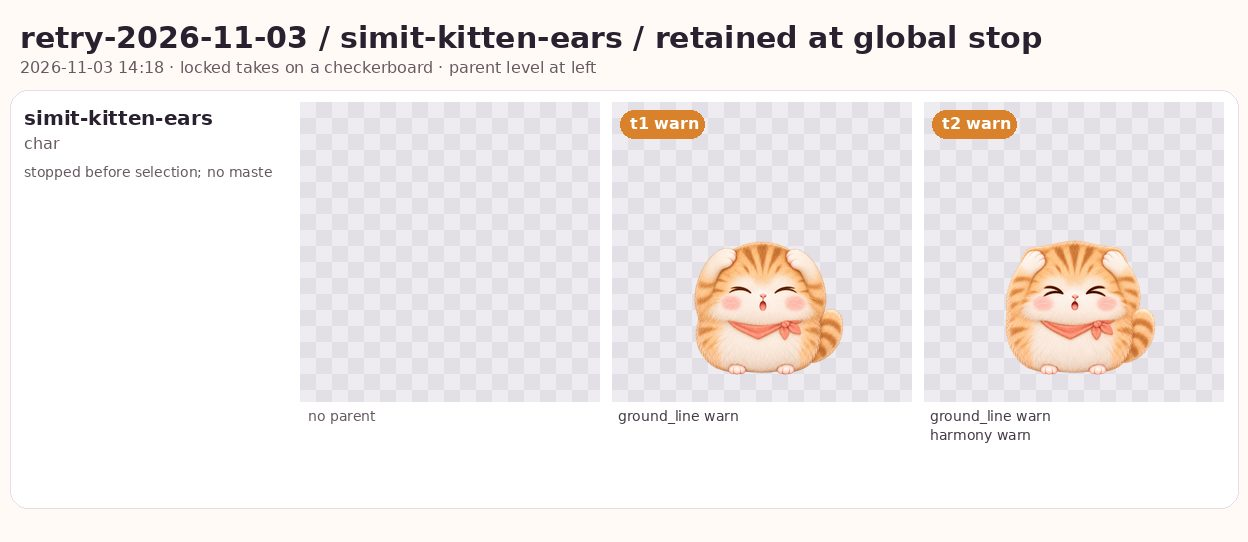
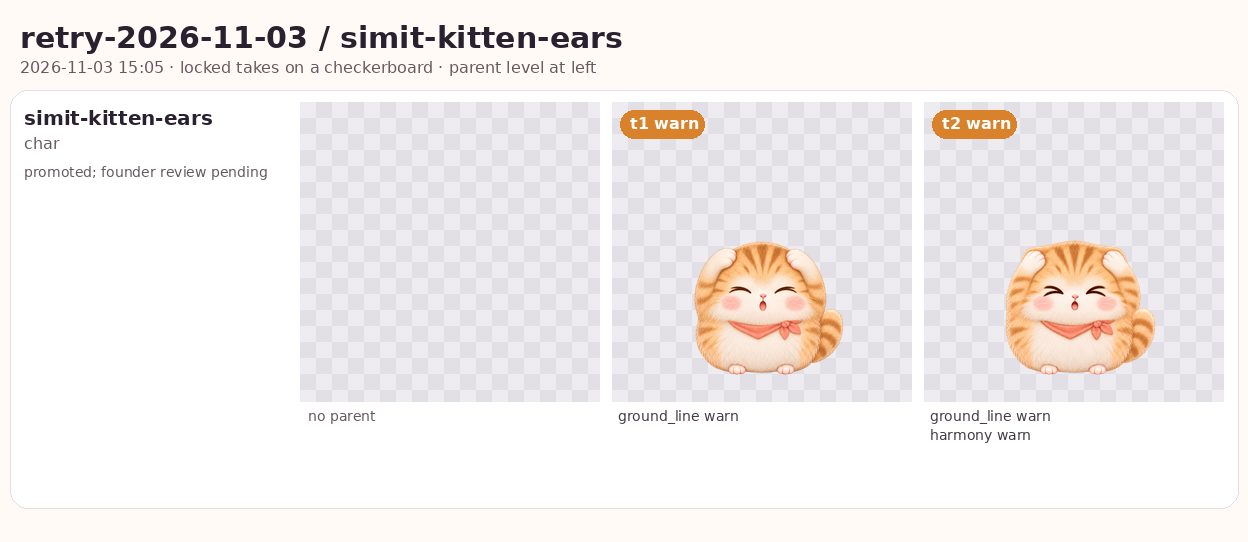
design(art): publish simit-kitten-ears
Generated-With: OpenAI Codex

Changed region(s): [[0.5, 0.059, 0.8438, 0.0886], [0.0, 0.2952, 0.2188, 0.3247], [0.0938, 0.1181, 0.125, 0.1476]]

diff --git a/design/art/masters/simit-kitten-ears/provenance.md b/design/art/masters/simit-kitten-ears/provenance.md
@@ -1,0 +1,52 @@
+# char__simit-kitten-ears
+
+- **Approved:** 2026-11-03T15:05:44+00:00 from batch `retry-2026-11-03`, job `simit-kitten-ears`, take t1
+  of 2 considered.
+- **Generating account:** Founder's uncle's ChatGPT plan, used by the founder with permission
+  (chatgpt-plan).
+- **Tool:** codex-cloud;
+  generated 2026-11-03T13:53:51+00:00.
+- **Post-processing (human-authored, documented per art bible section 13):**
+  canvas fit, style lock preset `char-guard` (style_lock.json v2).
+- **Files:** `raw.webp` is the take as generated (webp lossless), kept so the look can be re-locked; `simit-kitten-ears.png` is the locked master the app and later edits use.
+- **Review note:** auto-picked by QA; founder review pending. Retained pair re-posted under main9ede62e; no new image generation. Both raise the front paws to cover both ears, squeeze the eyes into happy curves and open a soft o mouth, with no tears or worried look. Body, tail, feet and kitten identity remain. Current reports have warnings only from the inherited ground line; t2 also warns on Harmony69.1. Stability passes at0.7572/0.7804; no obsolete manual >0.9 gate. The previously unsealed proposal is now selected as t1 by Harmony71.7 versus69.1, with no character lock-load check and no failure waived.
+
+## References
+
+- `design/art/masters/simit-kitten/simit-kitten.png`: The image to edit (the approved previous level). Edit it; do not redraw it.
+
+## Prompt (fingerprint 549bb6831e90149b)
+
+```text
+REFERENCES (attached, in this order):
+1. The image to edit (the approved previous level). Edit it; do not redraw it.
+
+Edit the attached kitten, Simit: both front paws are raised and
+pressed flat over her two ears, and her eyes are squeezed shut in
+two happy-scrunched curves with her small mouth open in a soft "o".
+Her body, tail, feet, colors and size stay exactly as they are.
+
+KEEP: everything not named above stays exactly the same as in the
+attached image: every existing part, its shape, color, position and size,
+the canvas, the camera, the light and the painting style. Do not zoom out
+or reframe: if a new part does not fit, make the new part smaller, never
+the existing ones. Outside the new parts, the result must line up with
+the attached image pixel for pixel.
+
+AVOID: tears, a worried look, a ground shadow, text.
+
+Output: one image, transparent background PNG, portrait 1024 x 1536.
+```
+
+## QA at approval
+
+- pass: transparency (source has an alpha channel)
+- pass: canvas (1024x1536)
+- pass: chroma_ceiling (chroma p95 54 (R1 51))
+- pass: value_floor (lightness p5 60 (R1 59))
+- pass: detail_budget (detail at display size 4.6 (R1 5.3))
+- pass: palette_drift (mean dE 1.4, p95 4.0, off-palette 1.1% (top: #552211 (0.2%), #662211 (0.1%)))
+- warn: ground_line (feet at 92.4% of the height (contract 88%))
+- pass: harmony (harmony score 72 against the char reference (outliers: C_p95, L_p2, detail))
+- pass: edit_stability (76% of the parent level unchanged)
+- pass: edit_chroma (chroma x0.91 of the parent level (drift compounds along a chain))
